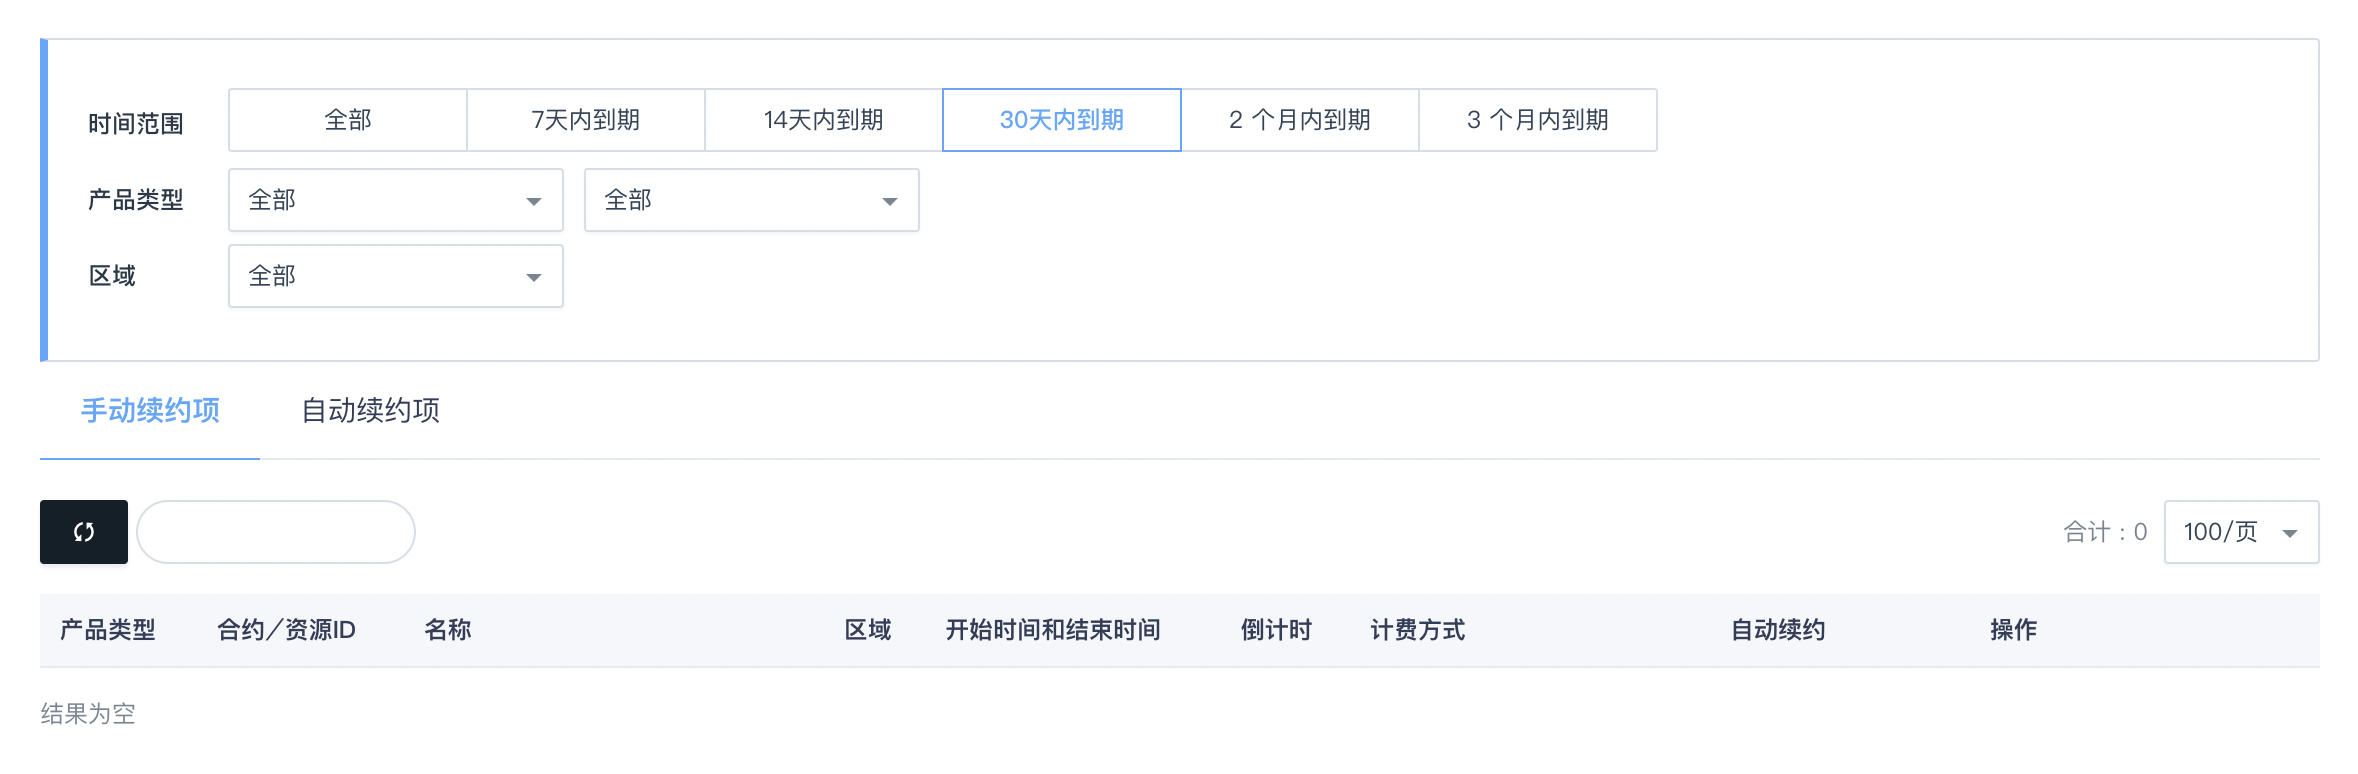
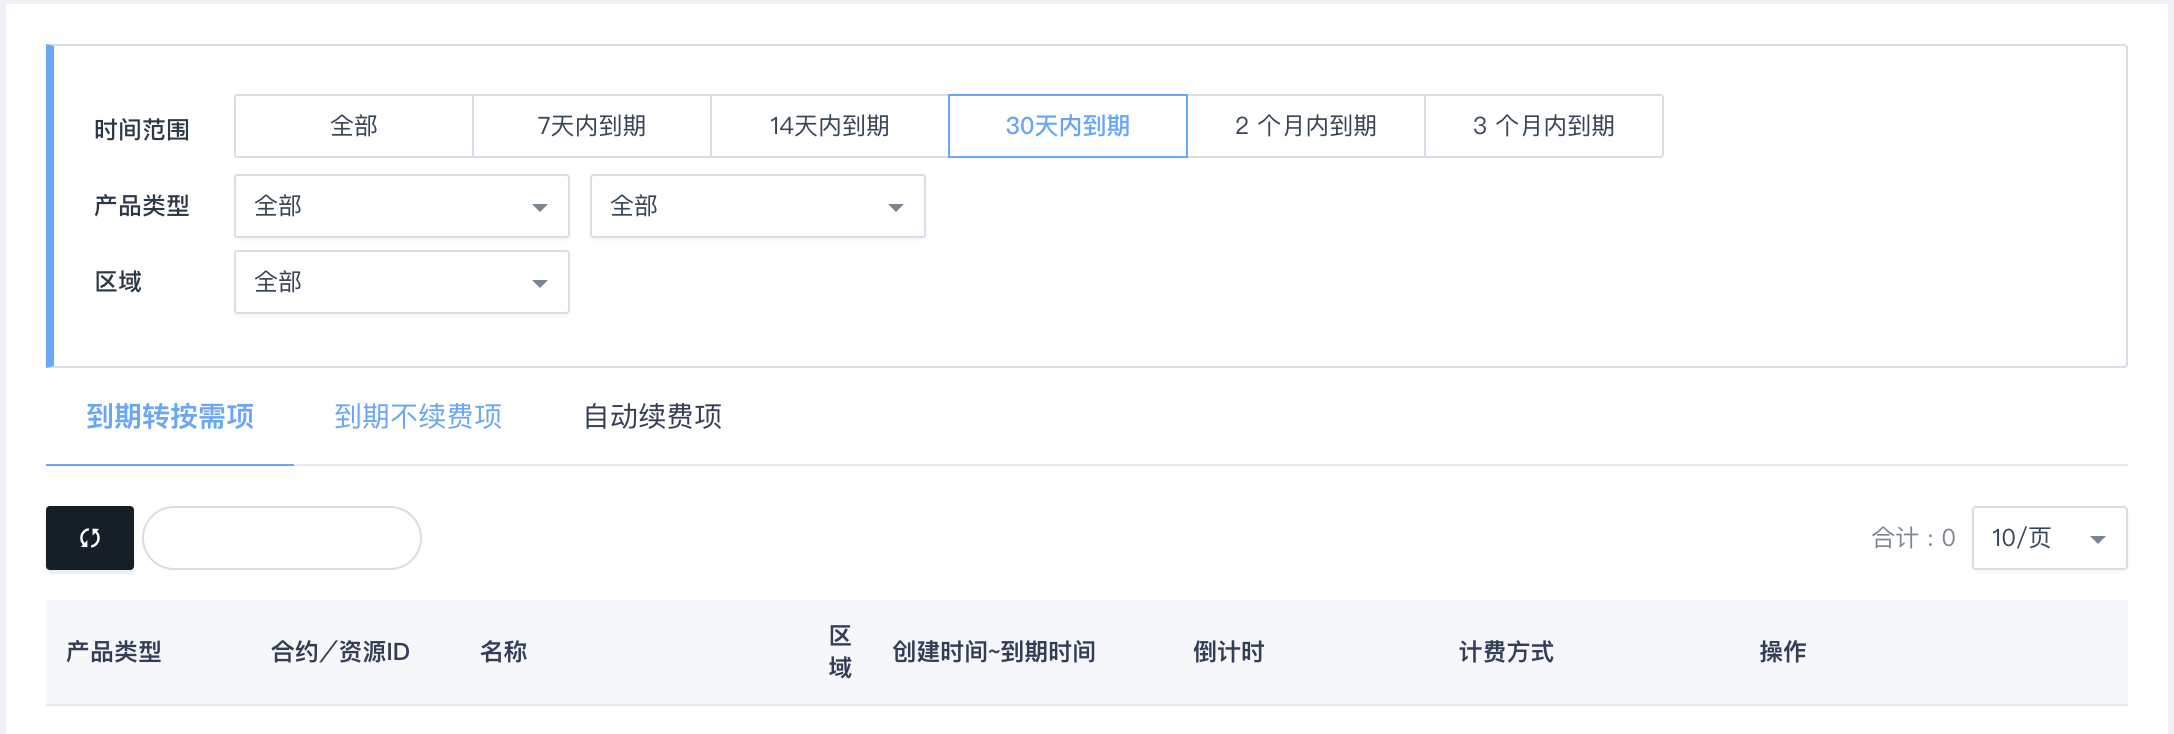
fix

diff --git a/content/services/bill_center/manual/finance.md b/content/services/bill_center/manual/finance.md
@@ -16,7 +16,7 @@ keyword: 账单, 发票, 订单, 充值, 费用
 
 - 查看充值记录：点击**充值记录**，弹出**充值记录**页面，即可查看每次充值金额及时间。
 - 线上充值：输入充值金额，选择支付方式，点击**立即充值**。
-- 银行转账：除线上充值，还可通过银行转账汇款至「北京山河计算平台科技股份有限公司」账户。
+- 银行转账：除线上充值，还可通过银行转账汇款至「济南超级计算技术研究所」账户。
 
 > 说明：
 >

diff --git a/content/middware/etcd/billing/main.md b/content/middware/etcd/billing/main.md
@@ -28,7 +28,7 @@ etcd  集群基础资源费用请以部署页面的费用预览显示为准。
 
 ## 余额不足提醒
 
-青云系统会定期检查用户余额和当时名下弹性计费资源的消费预估， 如果检查发现余额即将不足，会提前给用户发送通知。
+计算平台会定期检查用户余额和当时名下弹性计费资源的消费预估， 如果检查发现余额即将不足，会提前给用户发送通知。
 
 通知策略是：分别在提前 15，7，3，2，1 天时发送提醒。
 

diff --git a/content/services/bill_center/manual/order/renewal.md b/content/services/bill_center/manual/order/renewal.md
@@ -20,7 +20,7 @@ keyword: 账单, 发票, 订单, 充值, 费用
 
 - **续约查询**
 
-  选择**时间范围**、**产品类型**及**区域**后，下方列表显示符合条件的续约项。可分别查看即将到期的**手动续约项**和**自动续约项**。
+  选择**时间范围**、**产品类型**及**区域**后，下方列表显示符合条件的续约项。可分别查看即将到期的**到期转按需项**、**到期不续费项**和**自动续费项**。
 
 - **立即续约**
 

diff --git a/content/middware/etcd/manual/man05_main_operation.md b/content/middware/etcd/manual/man05_main_operation.md
@@ -37,7 +37,7 @@ weight: 5
 
 ![etcd-restore](/middware/etcd/images/etcd-restore.png)
 
-如果 etcd 集群已删除，可以通过青云控制台左侧菜单**存储** >**备份**找到并重新创建。
+如果 etcd 集群已删除，可以通过管理控制台左侧菜单**存储** > **备份**找到并重新创建。
 
 ![etcd-restore](/middware/etcd/images/etcd-restore-2.png)
 
